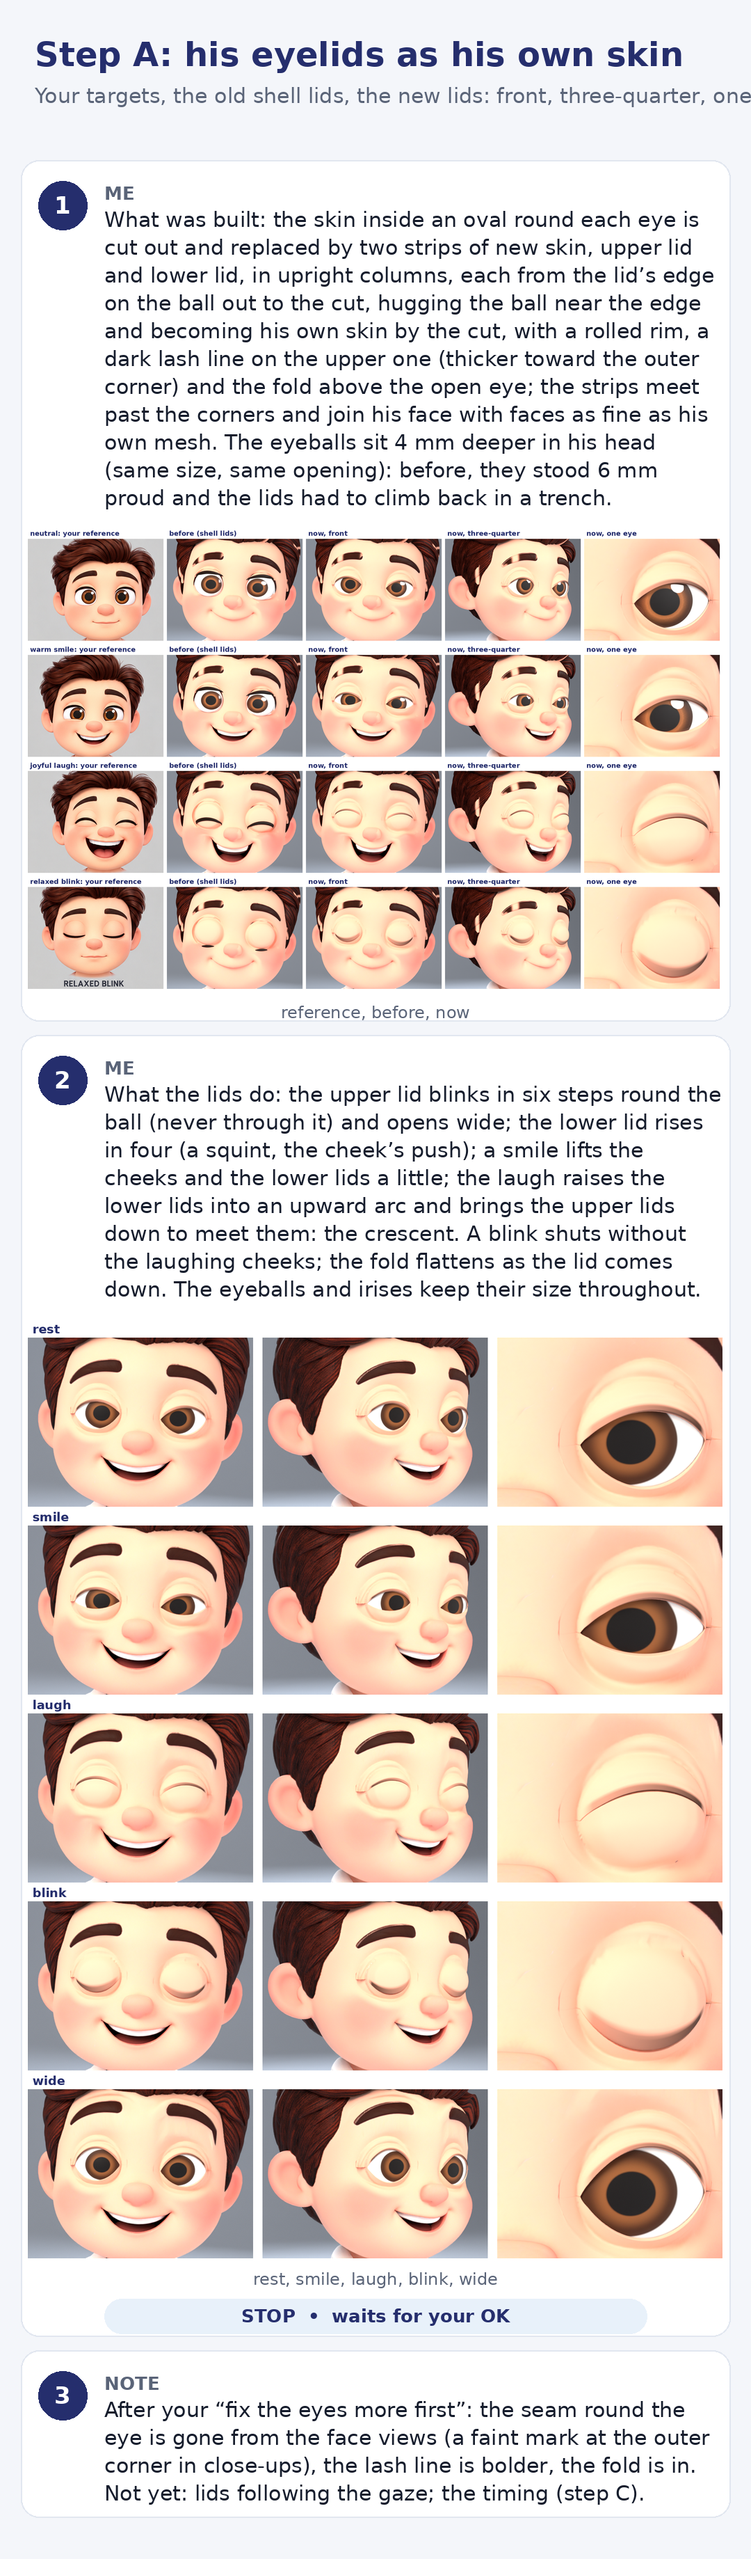
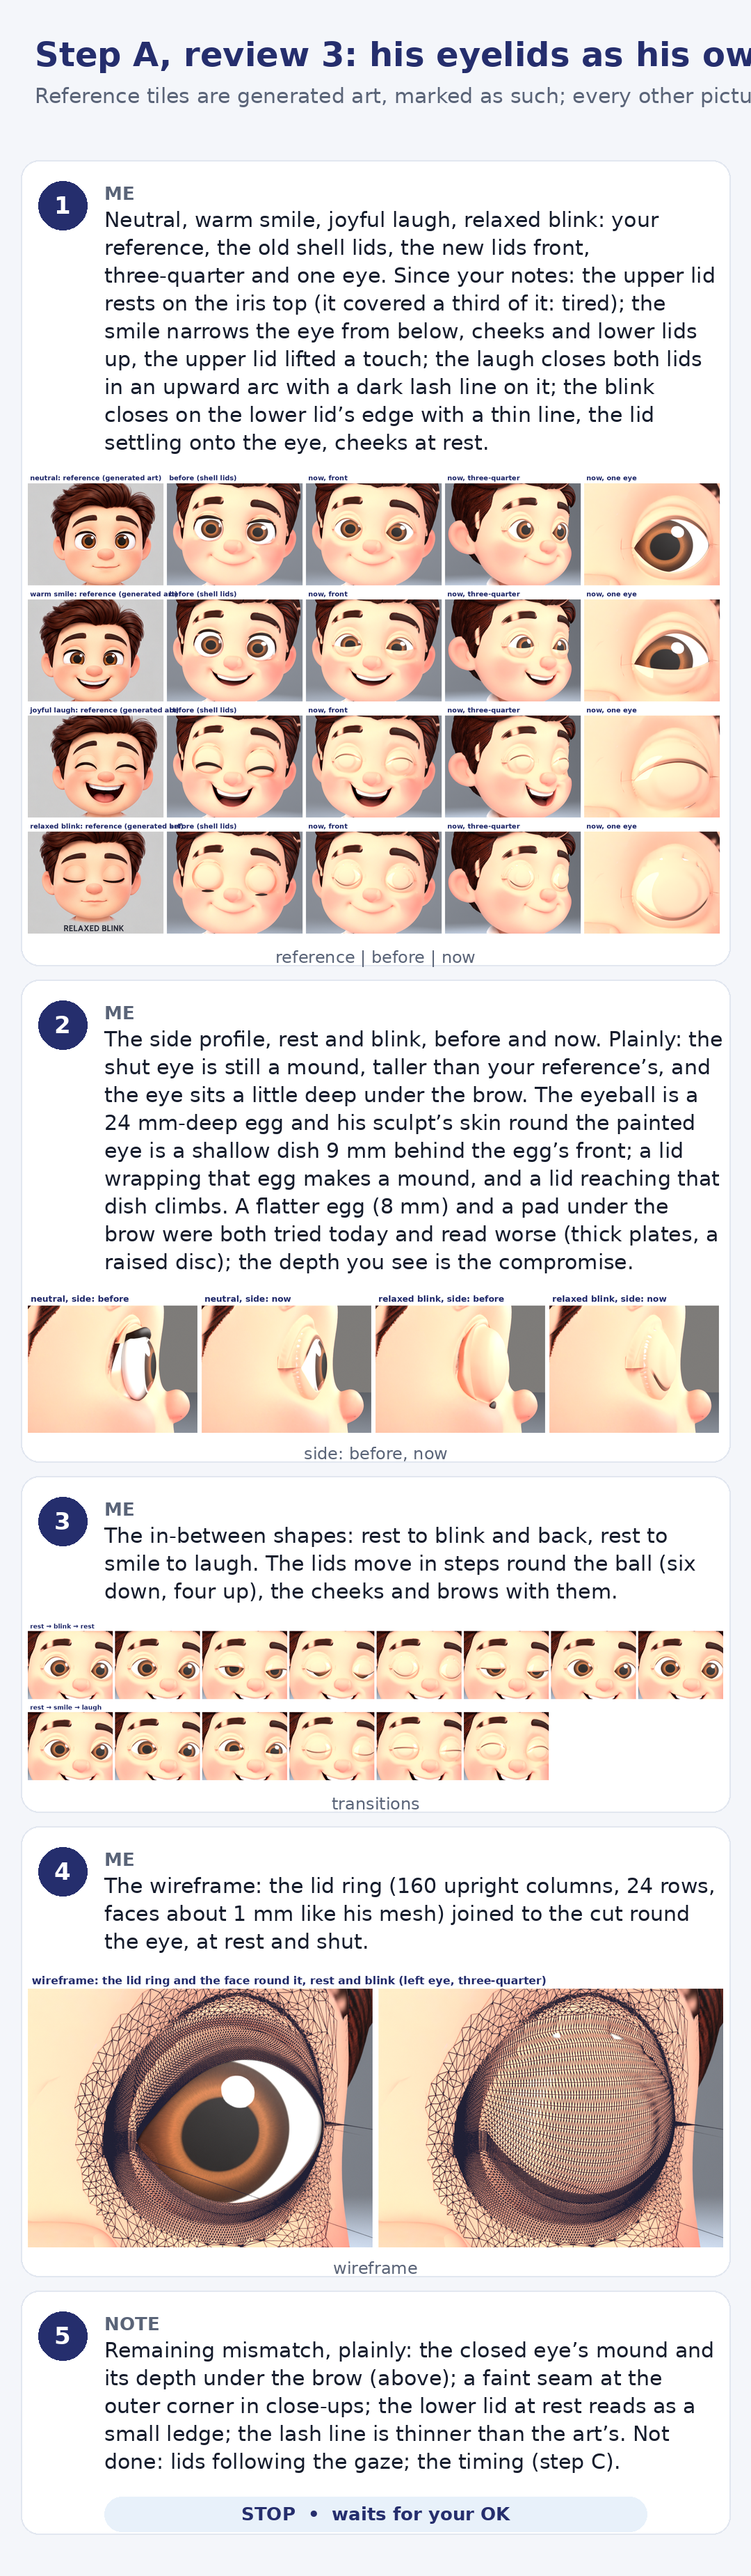
3D Dr. Smiley, step A review 3: the pictures (matte lids, side profiles, in-betweens, wireframe)
The review set after Jose's notes: reference, old lids, new lids front,
three-quarter and one eye; side profiles; the in-between shapes; the
wireframe of the lid ring on his face. The lids matte (a shut lid carried
a glossy patch). Docs only.

Claude-Session: https://claude.ai/code/session_018cy8uW9Woai5Ttyox29VXD

diff --git a/docs/mockups/smiley-3d/tripo_lids.py b/docs/mockups/smiley-3d/tripo_lids.py
@@ -385,7 +385,7 @@ def cut_and_ring(ob, eyes):
         rmix = nt.nodes.new('ShaderNodeMix'); rmix.data_type = 'FLOAT'
         rA = next(i for i in rmix.inputs if i.identifier == 'A_Float'); rB = next(i for i in rmix.inputs if i.identifier == 'B_Float')
         rout = next(o for o in rmix.outputs if o.identifier == 'Result_Float')
-        nt.links.new(rl[0].from_socket, rA); rB.default_value = .62
+        nt.links.new(rl[0].from_socket, rA); rB.default_value = .88          # matte (at .62 a shut lid carried a glossy patch)
         nt.links.new(flat_att.outputs['Fac'], rmix.inputs['Factor'])
         nt.links.new(rout, bsdf.inputs['Roughness'])
     A2, out2 = mixer('lash', (.03, .012, .006, 1)); nt.links.new(out1, A2)
